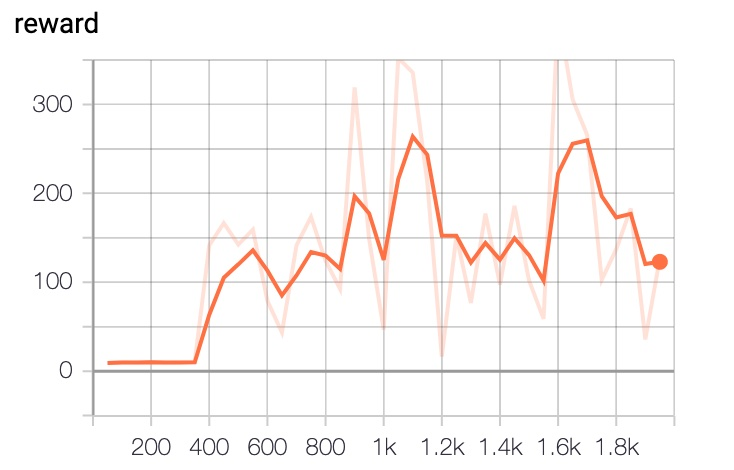
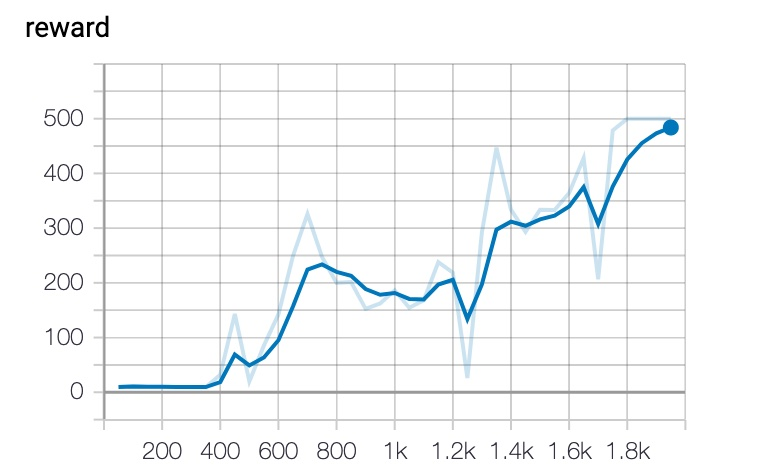
update readme

Changed region(s): [[0.03, 0.1191, 0.9292, 0.983], [0.0, 0.0298, 0.1499, 0.0894]]

diff --git a/examples/DQN/train.py b/examples/DQN/train.py
@@ -28,7 +28,7 @@ LEARN_FREQ = 5  # update parameters every 5 steps
 MEMORY_SIZE = 20000  # replay memory size
 MEMORY_WARMUP_SIZE = 200  # store some experiences in the replay memory in advance
 BATCH_SIZE = 32
-LEARNING_RATE = 0.005
+LEARNING_RATE = 0.0005
 GAMMA = 0.99  # discount factor of reward
 
 

diff --git a/examples/DQN/README.md b/examples/DQN/README.md
@@ -1,5 +1,5 @@
 ## Reproduce DQN with PARL
-Based on PARL, we provide a simple demonstration of DQN. For complete implementation of DQN, please check [DQN_varient](https://github.com/PaddlePaddle/PARL/tree/develop/examples/DQN_variant)
+Based on PARL, we provide a simple demonstration of DQN.
 
 + DQN in
 [Human-level Control Through Deep Reinforcement Learning](http://www.nature.com/nature/journal/v518/n7540/full/nature14236.html)
@@ -8,7 +8,7 @@ Based on PARL, we provide a simple demonstration of DQN. For complete implementa
 
 Performance of DQN playing CartPole-v1
 
-<p align="center">
+<p align="left">
 <img src="cartpole.jpg" alt="result" width="450"/>
 </p>
 
@@ -25,3 +25,7 @@ Performance of DQN playing CartPole-v1
 # To train a model for CartPole-v1 game
 python train.py
 ```
+
+## DQN-Variants
+
+For complete implementation of DQN, please check [DQN_varient](https://github.com/PaddlePaddle/PARL/tree/develop/examples/DQN_variant)
